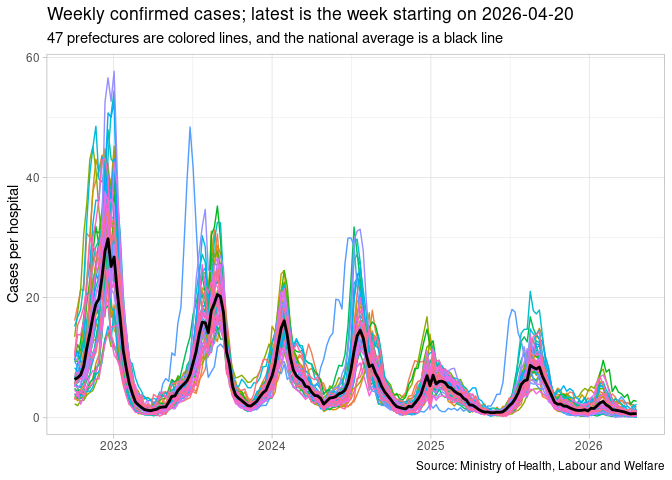
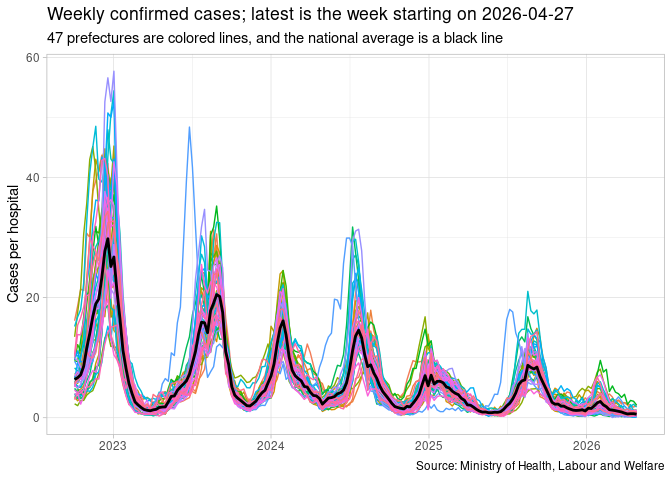
update on May 12, 2026

diff --git a/Japan_wk.md b/Japan_wk.md
@@ -2,7 +2,7 @@
 Mitsuo Shiota
 2023-05-20
 
-Updated: 2026-05-07
+Updated: 2026-05-15
 
 ## Covid-19 was reclassified as tier 5 on May 8, 2023 in Japan
 